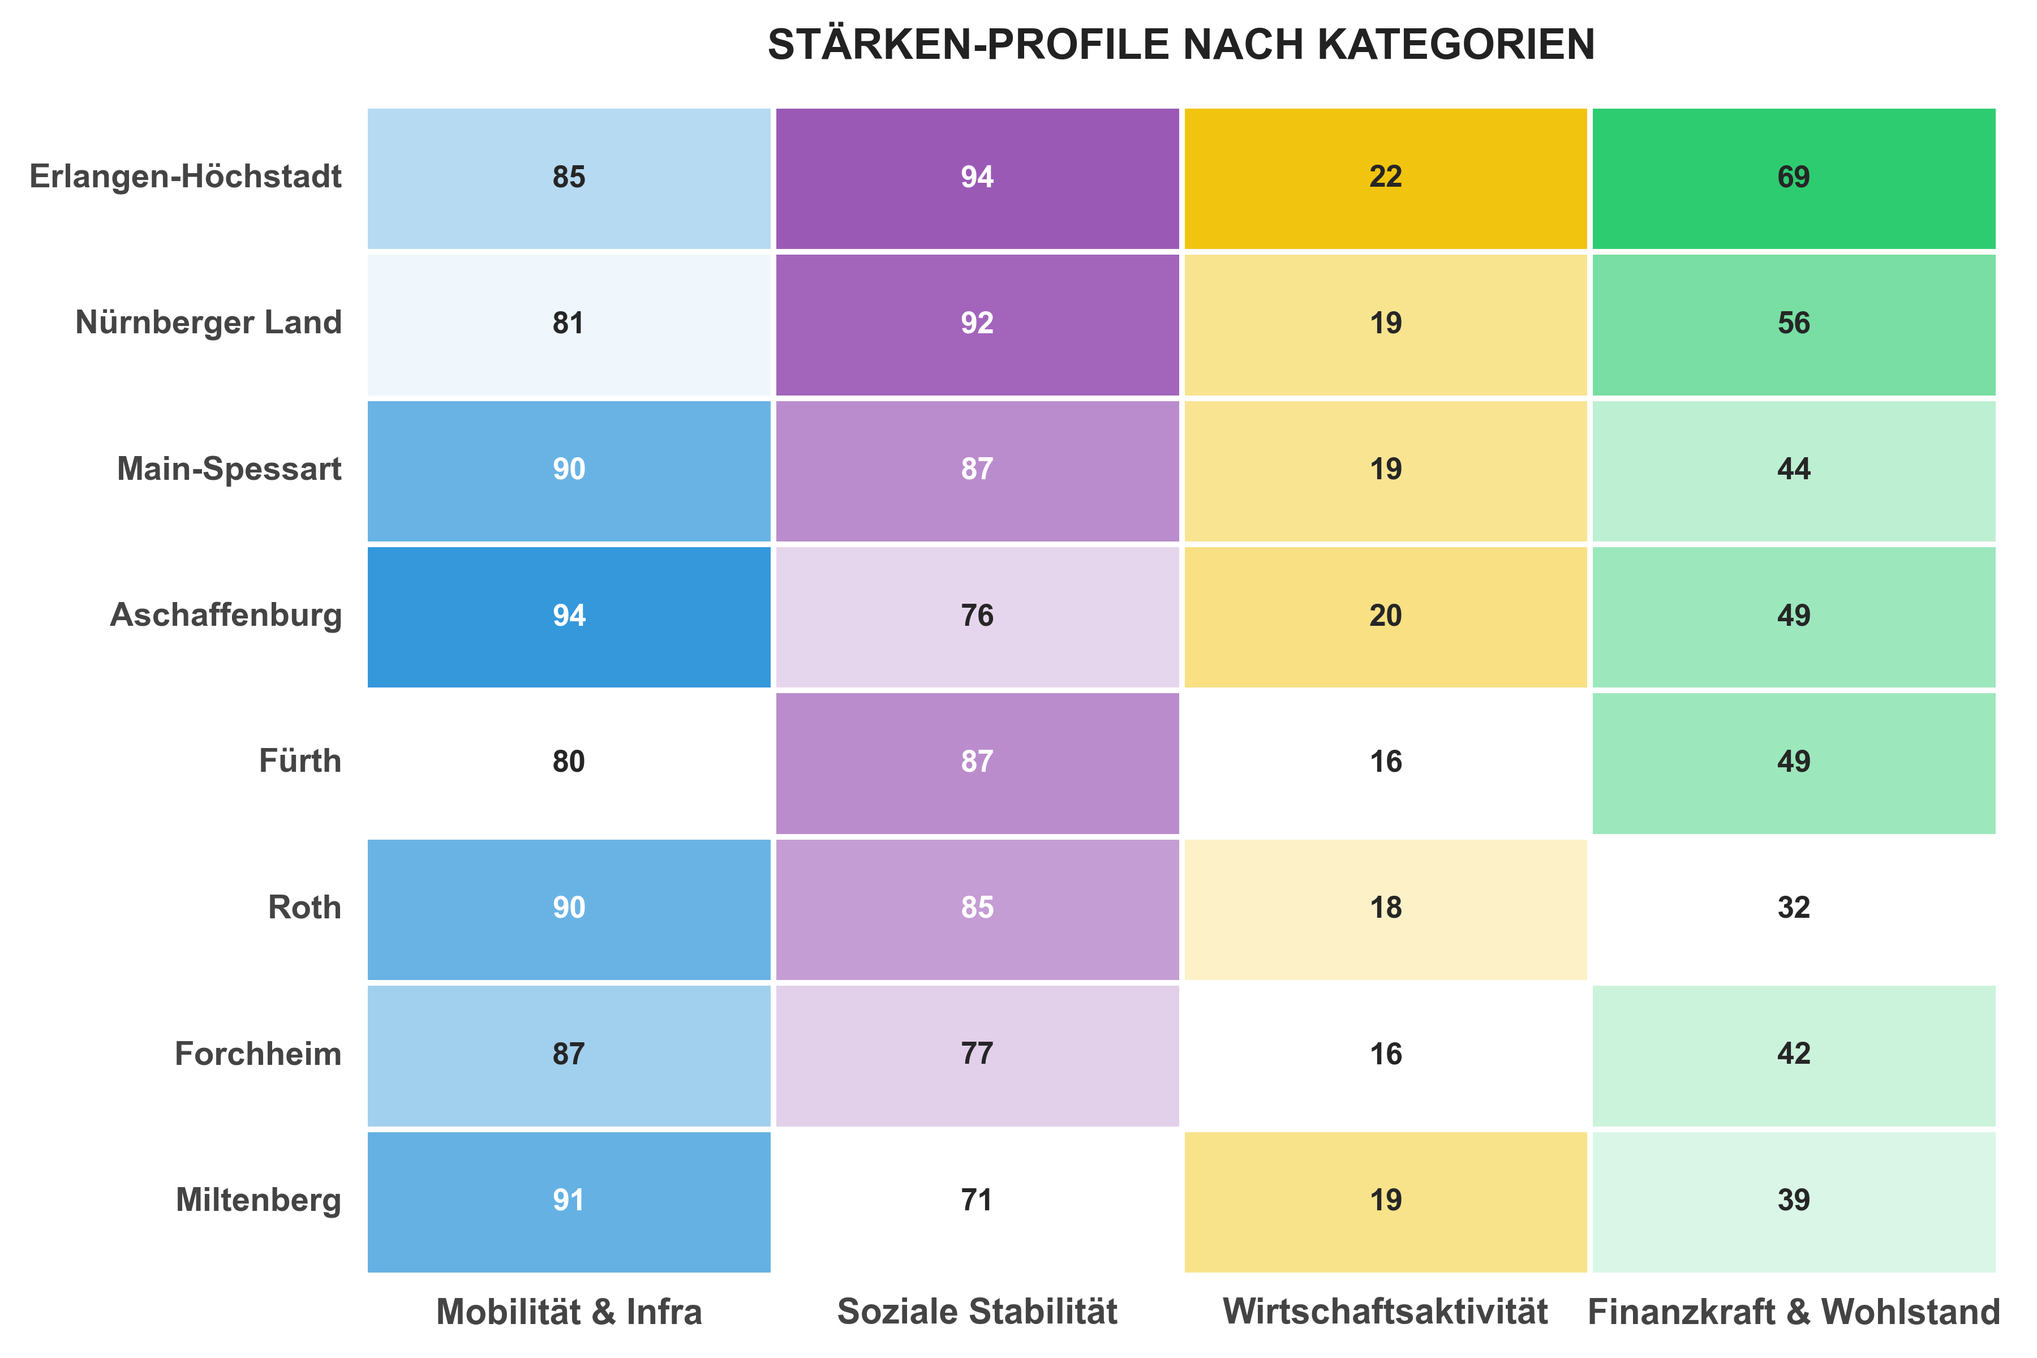
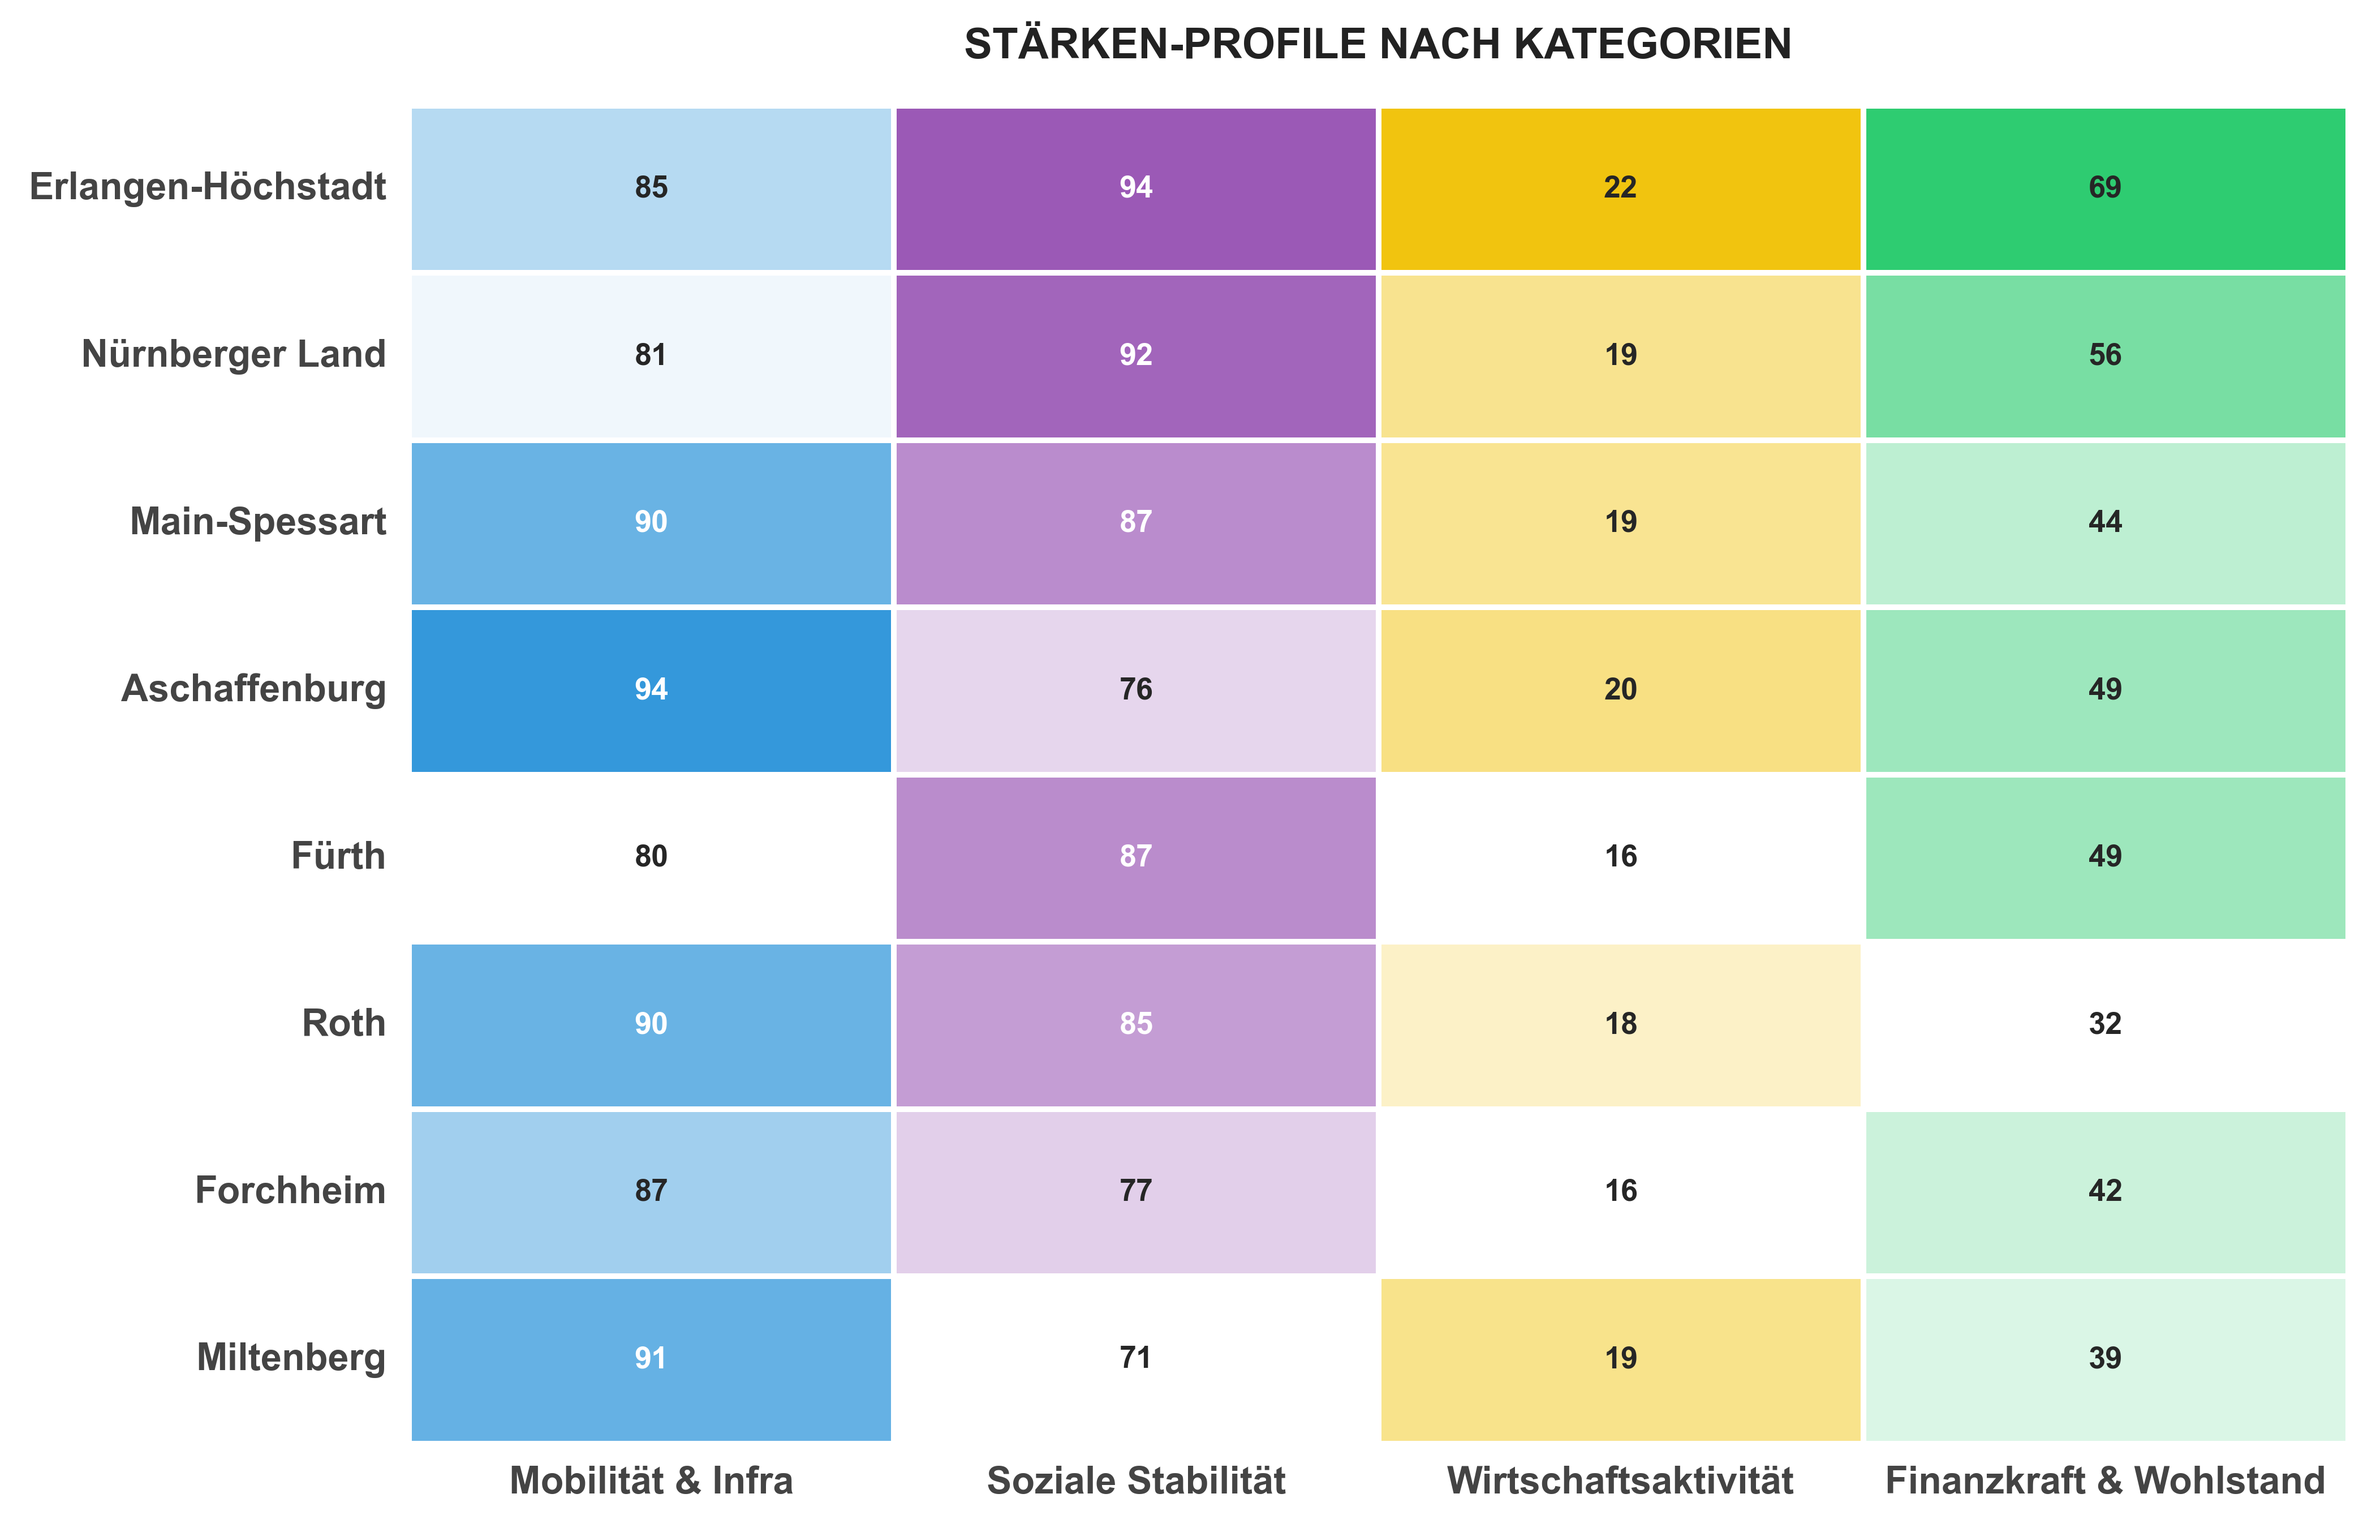
changes

diff --git a/neueIdee.py b/neueIdee.py
@@ -301,7 +301,7 @@ plt.savefig(output_dir / "2_Markvolumen_Sicherheit.png", dpi=300)
 # === PLOT 3: HEATMAP (MIT FARBEN AUS PLOT 4a) ===
 from matplotlib.colors import LinearSegmentedColormap
 
-plt.figure(figsize=(12, 8))
+plt.figure(figsize=(14, 9))
 
 # Wir nutzen exakt dieselben Top 8, sortiert nach Gesamt-Index (Vorher)
 plot_heatmap = top_8_global.sort_values(by="Index_Vorher", ascending=False).copy()
@@ -345,8 +345,8 @@ for i, col_name in enumerate(hm_data.columns):
 
 plt.title("STÄRKEN-PROFILE NACH KATEGORIEN", pad=20, fontsize=18)
 plt.ylabel("")
-plt.xticks(fontsize=15, weight='bold')
-plt.yticks(fontsize=14, weight='bold', rotation=0)
+plt.xticks(fontsize=16, weight='bold')
+plt.yticks(fontsize=16, weight='bold', rotation=0)
 plt.tight_layout()
 plt.savefig(output_dir / "3_Stärken_Profil.png", dpi=300)
 
@@ -461,7 +461,7 @@ plt.tight_layout()
 plt.savefig(output_dir / "4a_Gesamt_Score_Kateg.png", dpi=300)
 
 # === PLOT 4b: REALITÄTS-CHECK (LOGIK GEDREHT: VIEL SERVICE = GUT) ===
-plt.figure(figsize=(12, 9))
+plt.figure(figsize=(14, 9))
 
 # 1. BERECHNUNG
 plot_data_4b = top_8_global.copy()
@@ -519,7 +519,7 @@ for i in range(len(plot_data_4b)):
                      xytext=(row['Index_Vorher'], i+1),
                      arrowprops=dict(arrowstyle='-> ', color='black', lw=2.5))
 
-plt.yticks(my_range, plot_data_4b['Name'], fontsize=13, fontweight='bold', color='#222222')
+plt.yticks(my_range, plot_data_4b['Name'], fontsize=16, fontweight='bold', color='#222222')
 plt.title("FINALES ERGEBNIS: PUNKTZAHL NACH INTEGRIERUNG DER BANKDICHTE", pad=20, fontsize=18)
 plt.xlabel("Gesamt-Score ", fontsize=15, fontweight='bold')
 plt.legend(loc='lower right', frameon=True, fontsize=15)
